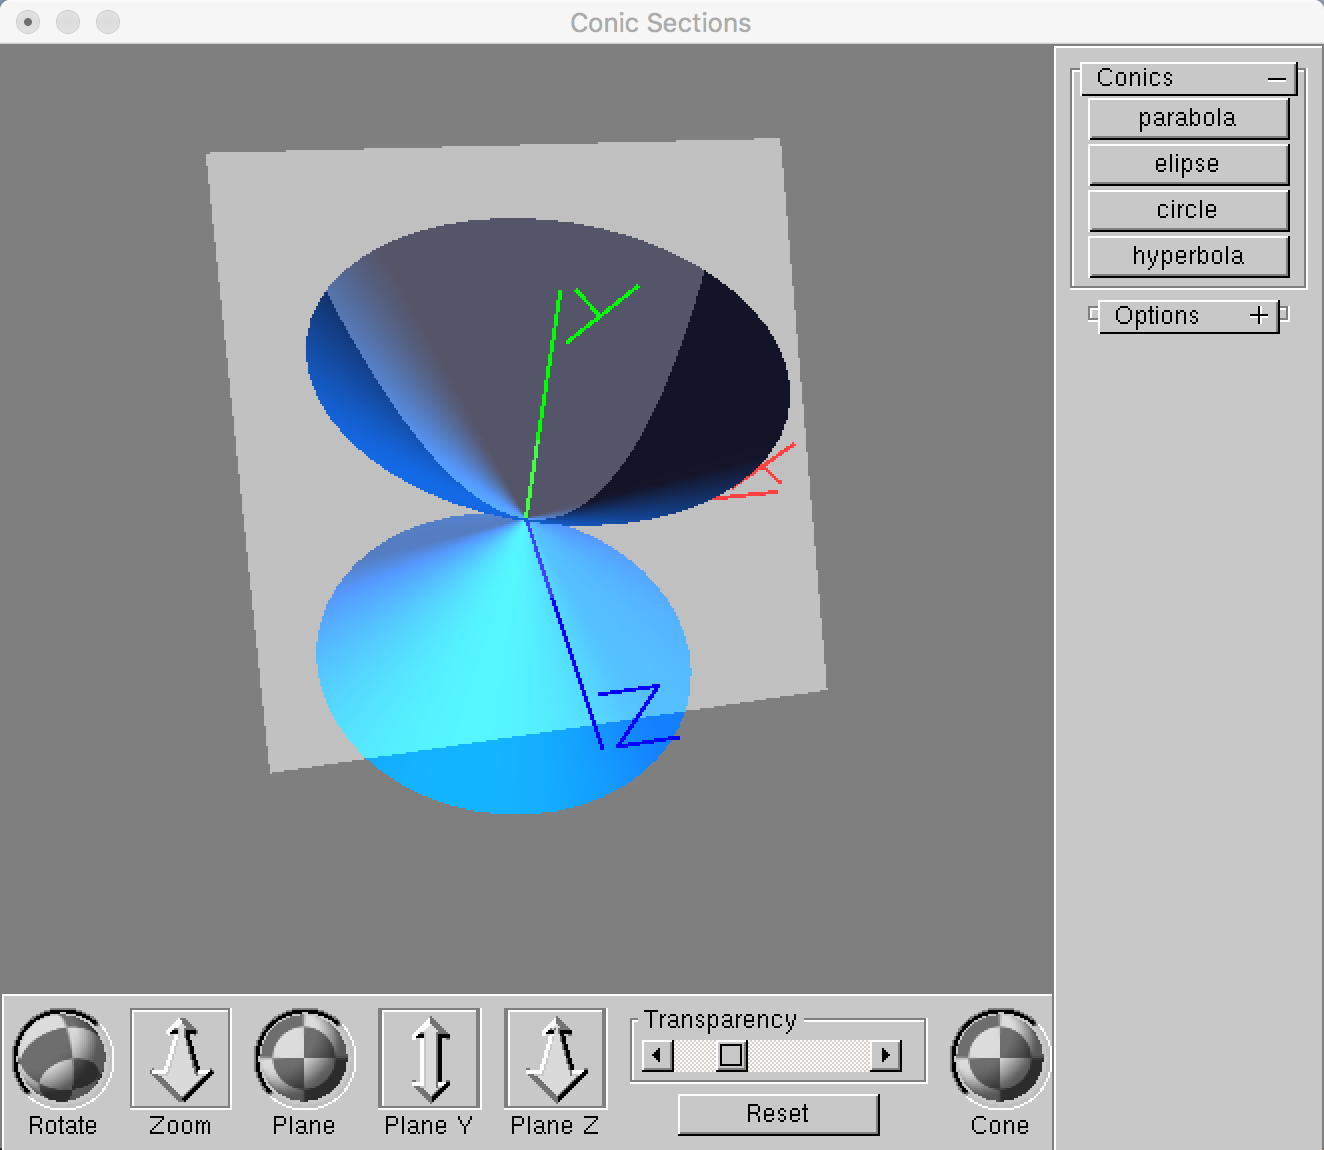
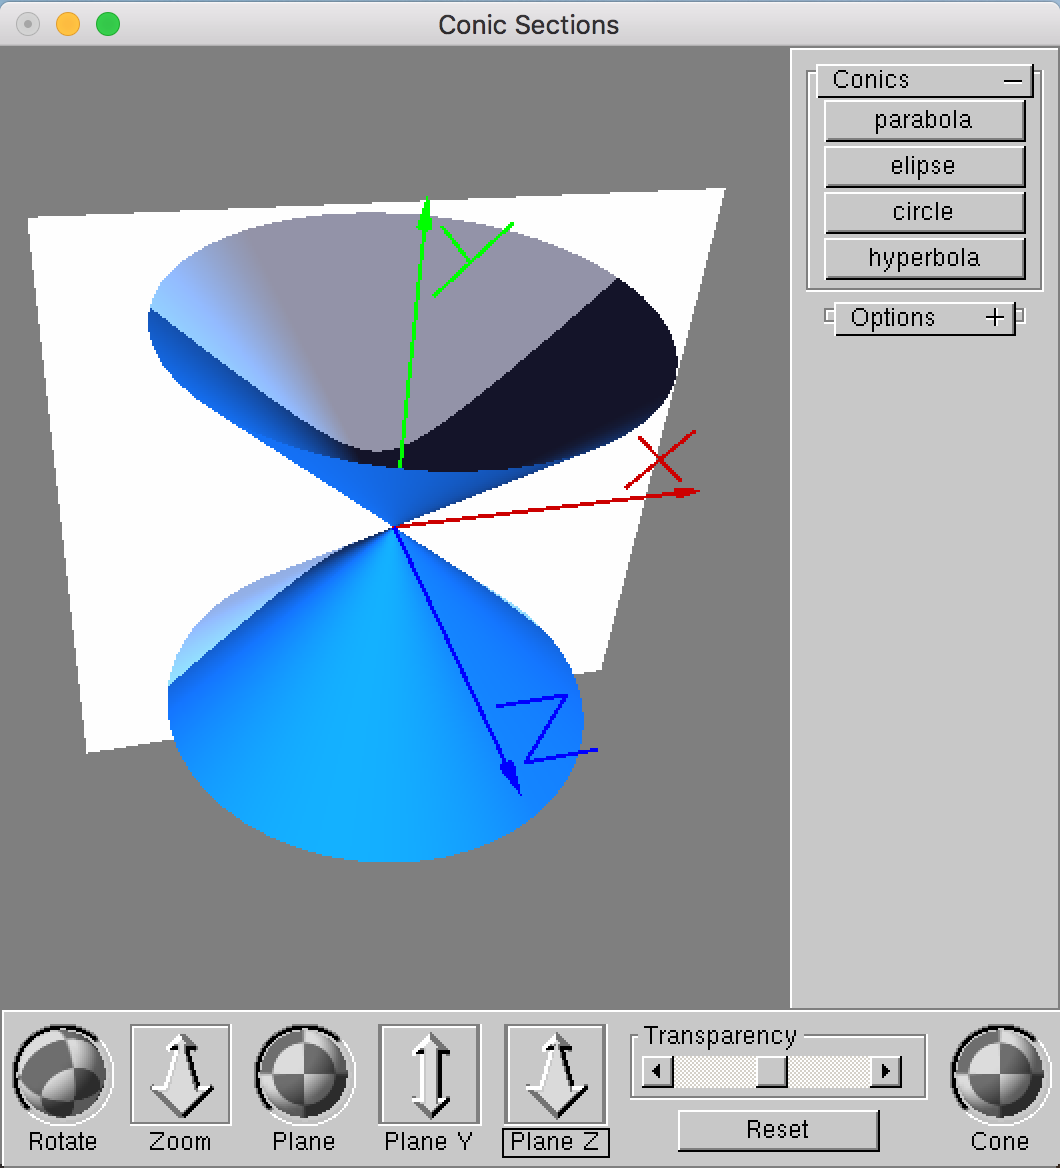
fix refactor bug for generator angle; add axes arrows

diff --git a/controller/hello-conics-6.cpp b/controller/hello-conics-6.cpp
@@ -13,17 +13,17 @@
         slider for cone generator angle
         attempt at transparency
         pre-configured conic buttons (parabola, elipse, hyperbola)
-        Y and Z axis labels
+        add Y and Z axis labels
         streamline the ui a bit more
         jettison cone transparency, not very useful
+        add arrow-heads to axes
 	
   -----------------------------------------------------------------------
 
-  This is an altered version of code written by:
+  The glui layout is descended from original example code written by:
+  7/10/98 Paul Rademacher (rademach@cs.unc.edu) (GLUI toolkit ver 2.37)
 
-  7/10/98 Paul Rademacher (rademach@cs.unc.edu)
-
-  in the GLUI user interface toolkit (ver 2.37).
+  Copyright (☯) 2018 Glenn Streiff
 
 ****************************************************************************/
 
@@ -45,7 +45,7 @@ GLfloat g_cone_width = DFLT_CONE_WIDTH;
 GLfloat g_cone_height = 0.4;
 GLfloat g_cone_angle = atan(g_cone_height/g_cone_width);
 
-static const GLfloat DFLT_PLANE_TRANSPARENCY = 0.7; // opaque = 1.0, invisible = 0.0
+static const GLfloat DFLT_PLANE_TRANSPARENCY = 0.5; // opaque = 1.0, invisible = 0.0
 GLfloat g_plane_transparency = DFLT_PLANE_TRANSPARENCY; 
 GLfloat g_plane_material[] = {0.0, 0.5, 1.0, g_plane_transparency};
 
@@ -84,7 +84,7 @@ GLUI *g_glui_win, *g_glui_win2;
 GLUI_Spinner *g_light0_spinner, *g_light1_spinner;
 
 GLfloat g_view_scale = 1.25f;
-GLfloat g_plane_scale = 0.52f;
+GLfloat g_plane_scale = 0.55f;
 GLfloat g_plane_color[] = {1.0, 1.0, 1.0, g_plane_transparency};
 
 /********** User IDs for callbacks ******************/
@@ -323,7 +323,7 @@ void draw_axes(GLfloat scale)
   glScalef(scale, scale, scale);
 
   glBegin(GL_LINES);
-    glColor3f(1.0, 0.0, 0.0);
+    glColor3f(0.8, 0.0, 0.0);
     /* Letter X */
     glVertex3f(0.8f, 0.05f, 0.0); glVertex3f(1.0, 0.25f, 0.0); 
     glVertex3f(0.8f, 0.25f, 0.0); glVertex3f(1.0, 0.05f, 0.0);
@@ -348,7 +348,31 @@ void draw_axes(GLfloat scale)
 
     /* Z axis */
     glVertex3f(0.0, 0.0, 0.0); glVertex3f(0.0, 0.0, 1.0); 
+
   glEnd();
+
+  /* X axis arrow */
+  glPushMatrix();
+    glColor3f(0.8, 0.0, 0.0);
+    glTranslatef(1.0, 0.0, 0.0);
+    glRotatef(90.0, 0.0, 1.0, 0.0);
+    glutSolidCone(0.02, 0.10, 10, 10);
+  glPopMatrix();
+
+  /* Y axis arrow */
+  glPushMatrix();
+    glColor3f(0.0, 1.0, 0.0);
+    glTranslatef(0.0, 1.0, 0.0);
+    glRotatef(-90.0, 1.0, 0.0, 0.0);
+    glutSolidCone(0.02, 0.10, 10, 10);
+  glPopMatrix();
+
+  /* Z axis arrow */
+  glPushMatrix();
+    glColor3f(0.0, 0.0, 1.0);
+    glTranslatef(0.0, 0.0, 1.0);
+    glutSolidCone(0.02, 0.10, 10, 10);
+  glPopMatrix();
 
   glPopMatrix();
   glEnable(GL_LIGHTING);
@@ -405,7 +429,7 @@ void myGlutDisplay()
     glMultMatrixf(g_cone_rotate);
     glPushMatrix();
       glRotatef(-90.0, 1.0, 0.0, 0.0);
-      glTranslatef(0.0, 0.0, -g_cone_width);
+      glTranslatef(0.0, 0.0, -DFLT_CONE_WIDTH);
       if (g_live_wireframe && g_show_cone)
         glutWireCone(g_cone_width, g_cone_height, g_live_slices, g_live_segments);
       else if (g_show_cone)
@@ -414,7 +438,7 @@ void myGlutDisplay()
 
     glPushMatrix();
       glRotatef(90.0, 1.0, 0.0, 0.0);
-      glTranslatef(0.0, 0.0, -g_cone_width);
+      glTranslatef(0.0, 0.0, -DFLT_CONE_WIDTH);
       if (g_live_wireframe && g_show_cone)
         glutWireCone(g_cone_width, g_cone_height, g_live_slices, g_live_segments);
       else if (g_show_cone)
@@ -650,4 +674,3 @@ int main(int argc, char* argv[])
 
   return EXIT_SUCCESS;
 }
-
